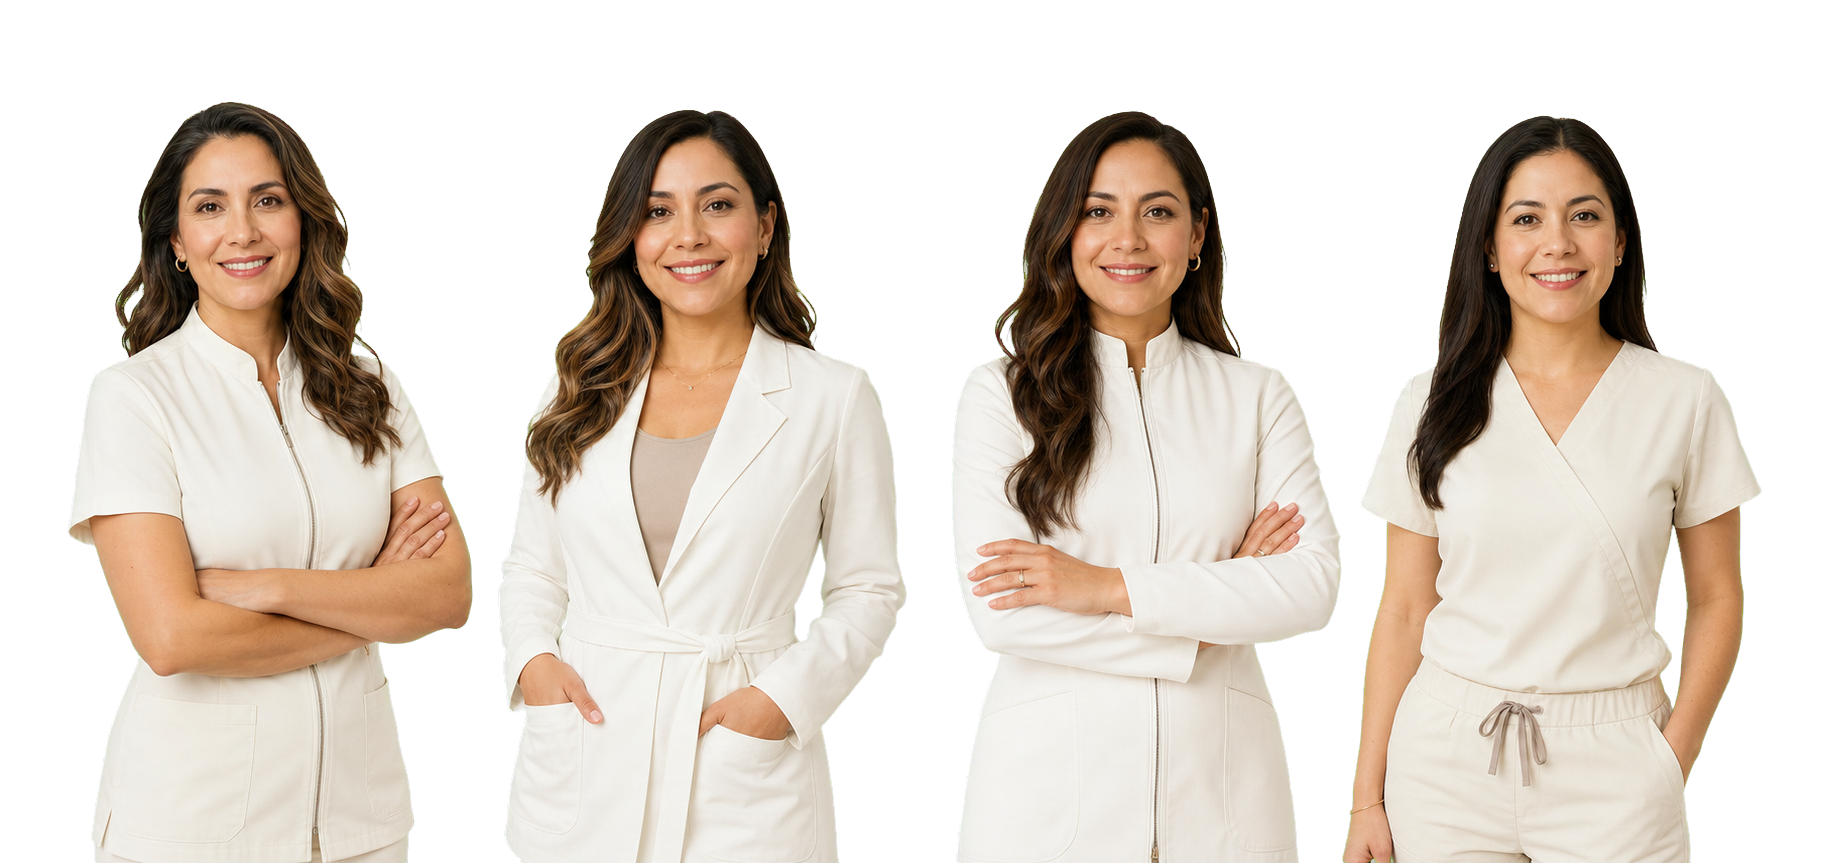
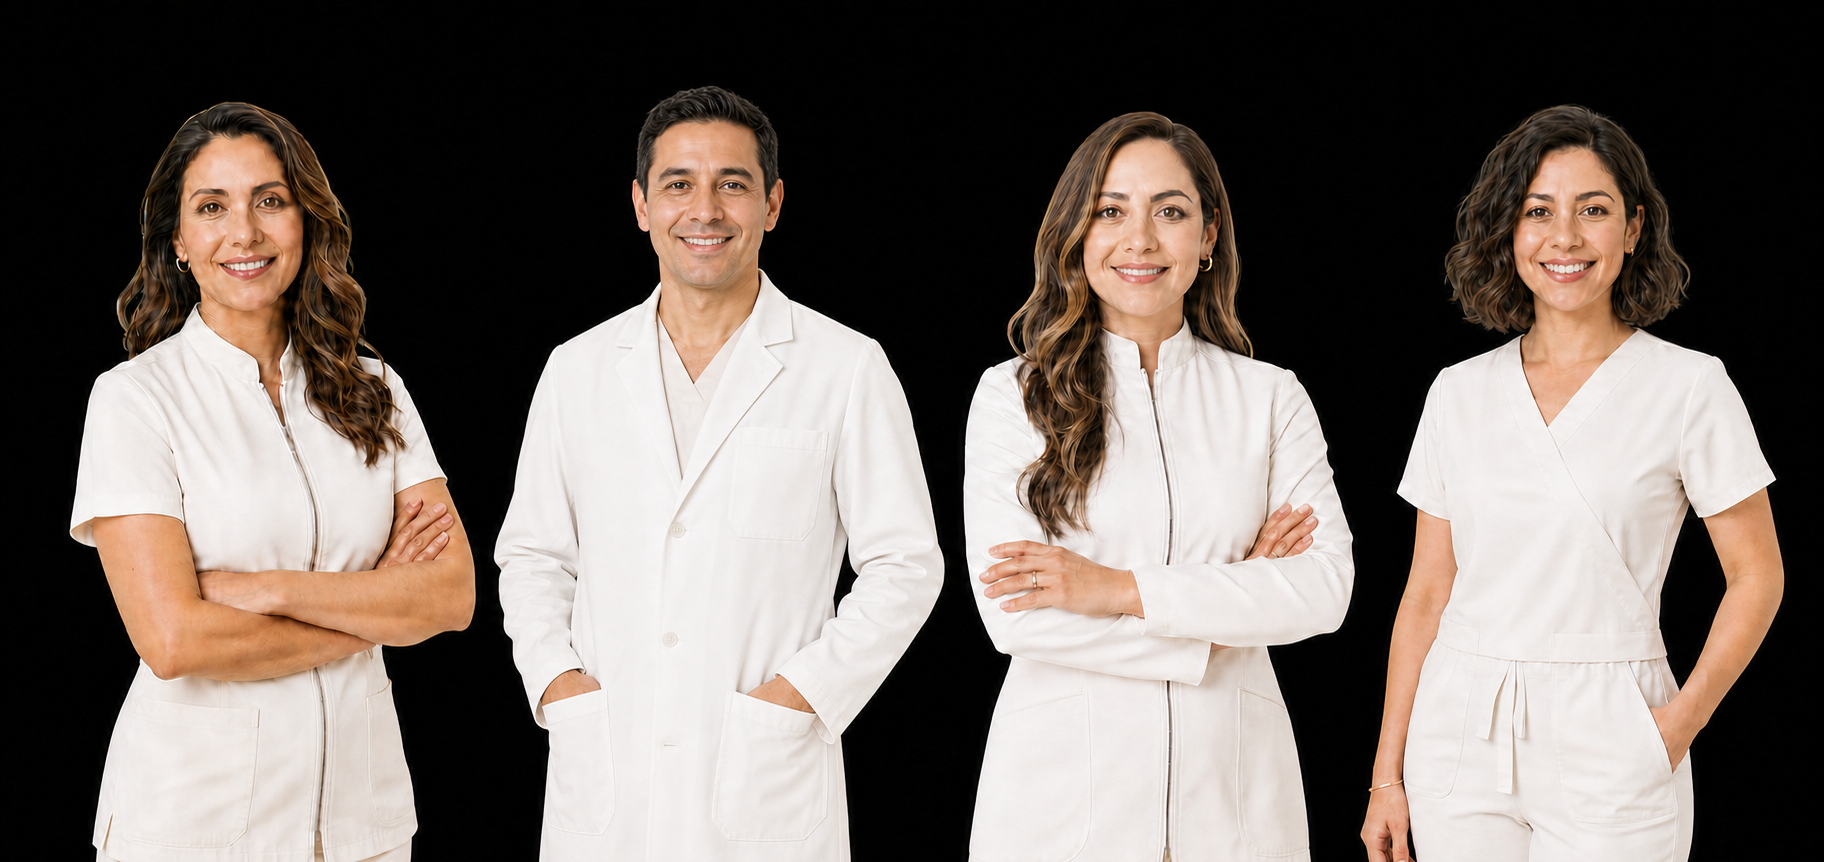
Actualiza marca y equipo de Clinica Dental Oris

diff --git a/index.html b/index.html
@@ -3,10 +3,10 @@
   <head>
     <meta charset="utf-8" />
     <meta name="viewport" content="width=device-width, initial-scale=1" />
-    <title>tüdd | Consultorio dental boutique</title>
+    <title>Clinica Dental Oris | Consultorio dental boutique</title>
     <meta
       name="description"
-      content="Consultorio dental boutique con asistente de triaje, cuatro doctoras independientes y agenda de citas."
+      content="Consultorio dental boutique con asistente de triaje, cuatro especialistas independientes y agenda de citas."
     />
     <link rel="preconnect" href="https://fonts.googleapis.com" />
     <link rel="preconnect" href="https://fonts.gstatic.com" crossorigin />
@@ -19,7 +19,7 @@
   <body>
     <header class="site-header" id="siteHeader">
       <div class="wrap nav-wrap">
-        <a class="logo" href="#inicio" aria-label="tüdd inicio">tüdd</a>
+        <a class="logo" href="#inicio" aria-label="Clinica Dental Oris inicio">Clinica Dental Oris</a>
         <nav class="main-nav" id="mainNav" aria-label="Navegacion principal">
           <a href="#consultorio">Consultorio</a>
           <a href="#nosotros">Nosotros</a>
@@ -43,7 +43,7 @@
         <div class="wrap hero-inner" id="heroInner">
           <h1>Antes de un diagnóstico, <em>una conversación.</em></h1>
           <p class="hero-lede">
-            Cuéntanos qué te trae por aquí y te orientamos hacia una de las cuatro doctoras
+            Cuéntanos qué te trae por aquí y te orientamos hacia una de las cuatro especialistas
             independientes del consultorio.
           </p>
 
@@ -58,7 +58,7 @@
           </section>
         </div>
 
-        <div class="scroll-cue"><span></span>conoce tüdd</div>
+        <div class="scroll-cue"><span></span>conoce Clinica Dental Oris</div>
       </section>
 
       <section class="about" id="consultorio">
@@ -67,12 +67,12 @@
             <span class="eyebrow">consultorio</span>
             <h2>Cuidado dental con calma, criterio y una agenda bien resuelta.</h2>
             <p class="quote">
-              Cuatro doctoras, cuatro maneras de atender, un mismo estándar de cuidado.
+              Cuatro especialistas, cuatro maneras de atender, un mismo estándar de cuidado.
               Primero se escucha, después se diagnostica.
             </p>
           </div>
           <div class="about-media reveal">
-            <img src="public/assets/tudd-clinic.png" alt="Recepcion minimal del consultorio dental tüdd" />
+            <img src="public/assets/tudd-clinic.png" alt="Recepcion minimal del consultorio dental Clinica Dental Oris" />
           </div>
         </div>
         <div class="stats-banner" aria-label="Datos del consultorio">
@@ -92,13 +92,13 @@
           </div>
           <div>
             <p>
-              tüdd reúne cuatro especialidades bajo un mismo criterio clínico: ortodoncia,
-              estética dental, endodoncia y odontopediatría. Cada doctora ejerce con
+              Clinica Dental Oris reúne cuatro especialidades bajo un mismo criterio clínico: ortodoncia,
+              estética dental, endodoncia y odontopediatría. Cada especialista ejerce con
               autonomía, y todas comparten protocolos de higiene, seguimiento y comunicación
               entre consultorios.
             </p>
             <p>
-              Si tu tratamiento requiere más de una especialidad, tus doctoras se coordinan
+              Si tu tratamiento requiere más de una especialidad, tus especialistas se coordinan
               directamente entre ellas - no tienes que ser tú quien explique tu caso dos veces.
             </p>
             <a href="#doctoras">conoce a cada especialista →</a>
@@ -113,7 +113,7 @@
             <h2>Cuatro especialidades, un mismo criterio de cuidado</h2>
           </div>
         </div>
-        <div class="doctor-panel" id="doctorTrack" aria-label="Doctoras de tüdd"></div>
+        <div class="doctor-panel" id="doctorTrack" aria-label="Especialistas de Clinica Dental Oris"></div>
       </section>
 
       <section class="trust" id="confianza">
@@ -137,7 +137,7 @@
             <span class="eyebrow">contacto</span>
             <h2>Visítanos o escríbenos.</h2>
             <div class="contact-list">
-              <div><span>dirección</span><p>Av Paseo de los Leones 2020, Cumbres 3o. Sector, 64610 Monterrey, N.L.<br />Plaza Altezza piso 1</p></div>
+              <div><span>dirección</span><p>Zona Valle, San Pedro Garza García, N.L.<br />Ubicación exacta al confirmar tu cita</p></div>
               <div><span>horario</span><p>Lunes a viernes, 9:00 - 19:00<br />Sábados, 9:00 - 14:00</p></div>
               <div><span>contacto</span><p>[email redacted]<br />+52 81 8208 5411</p></div>
             </div>
@@ -148,8 +148,8 @@
           </div>
           <div class="map-card">
             <iframe
-              title="Mapa de tüdd en Plaza Altezza"
-              src="https://www.google.com/maps?q=Av%20Paseo%20de%20los%20Leones%202020%2C%20Cumbres%203o.%20Sector%2C%2064610%20Monterrey%2C%20N.L.%20Plaza%20Altezza%20piso%201&output=embed"
+              title="Mapa de Clinica Dental Oris en San Pedro Garza García"
+              src="https://www.google.com/maps?q=San%20Pedro%20Garza%20Garc%C3%ADa%2C%20N.L.&output=embed"
               loading="lazy"
               referrerpolicy="no-referrer-when-downgrade"
             ></iframe>
@@ -161,7 +161,7 @@
     <footer class="footer">
       <div class="wrap footer-grid">
         <div>
-          <a class="logo" href="#inicio">tüdd</a>
+          <a class="logo" href="#inicio">Clinica Dental Oris</a>
           <p>Nosotras, cuidamos tu sonrisa.</p>
         </div>
         <div>
@@ -183,7 +183,7 @@
         </div>
       </div>
       <div class="wrap footer-bottom">
-        <span>© 2026 tüdd. Powered by cobalto.blue.</span>
+        <span>© 2026 Clinica Dental Oris. Powered by cobalto.blue.</span>
       </div>
     </footer>
 

diff --git a/public/index.html b/public/index.html
@@ -3,10 +3,10 @@
   <head>
     <meta charset="utf-8" />
     <meta name="viewport" content="width=device-width, initial-scale=1" />
-    <title>tüdd | Consultorio dental boutique</title>
+    <title>Clinica Dental Oris | Consultorio dental boutique</title>
     <meta
       name="description"
-      content="Consultorio dental boutique con asistente de triaje, cuatro doctoras independientes y agenda de citas."
+      content="Consultorio dental boutique con asistente de triaje, cuatro especialistas independientes y agenda de citas."
     />
     <link rel="preconnect" href="https://fonts.googleapis.com" />
     <link rel="preconnect" href="https://fonts.gstatic.com" crossorigin />
@@ -19,7 +19,7 @@
   <body>
     <header class="site-header" id="siteHeader">
       <div class="wrap nav-wrap">
-        <a class="logo" href="#inicio" aria-label="tüdd inicio">tüdd</a>
+        <a class="logo" href="#inicio" aria-label="Clinica Dental Oris inicio">Clinica Dental Oris</a>
         <nav class="main-nav" id="mainNav" aria-label="Navegacion principal">
           <a href="#consultorio">Consultorio</a>
           <a href="#nosotros">Nosotros</a>
@@ -43,7 +43,7 @@
         <div class="wrap hero-inner" id="heroInner">
           <h1>Antes de un diagnóstico, <em>una conversación.</em></h1>
           <p class="hero-lede">
-            Cuéntanos qué te trae por aquí y te orientamos hacia una de las cuatro doctoras
+            Cuéntanos qué te trae por aquí y te orientamos hacia una de las cuatro especialistas
             independientes del consultorio.
           </p>
 
@@ -58,7 +58,7 @@
           </section>
         </div>
 
-        <div class="scroll-cue"><span></span>conoce tüdd</div>
+        <div class="scroll-cue"><span></span>conoce Clinica Dental Oris</div>
       </section>
 
       <section class="about" id="consultorio">
@@ -67,12 +67,12 @@
             <span class="eyebrow">consultorio</span>
             <h2>Cuidado dental con calma, criterio y una agenda bien resuelta.</h2>
             <p class="quote">
-              Cuatro doctoras, cuatro maneras de atender, un mismo estándar de cuidado.
+              Cuatro especialistas, cuatro maneras de atender, un mismo estándar de cuidado.
               Primero se escucha, después se diagnostica.
             </p>
           </div>
           <div class="about-media reveal">
-            <img src="assets/tudd-clinic.png" alt="Recepcion minimal del consultorio dental tüdd" />
+            <img src="assets/tudd-clinic.png" alt="Recepcion minimal del consultorio dental Clinica Dental Oris" />
           </div>
         </div>
         <div class="stats-banner" aria-label="Datos del consultorio">
@@ -92,13 +92,13 @@
           </div>
           <div>
             <p>
-              tüdd reúne cuatro especialidades bajo un mismo criterio clínico: ortodoncia,
-              estética dental, endodoncia y odontopediatría. Cada doctora ejerce con
+              Clinica Dental Oris reúne cuatro especialidades bajo un mismo criterio clínico: ortodoncia,
+              estética dental, endodoncia y odontopediatría. Cada especialista ejerce con
               autonomía, y todas comparten protocolos de higiene, seguimiento y comunicación
               entre consultorios.
             </p>
             <p>
-              Si tu tratamiento requiere más de una especialidad, tus doctoras se coordinan
+              Si tu tratamiento requiere más de una especialidad, tus especialistas se coordinan
               directamente entre ellas - no tienes que ser tú quien explique tu caso dos veces.
             </p>
             <a href="#doctoras">conoce a cada especialista →</a>
@@ -113,7 +113,7 @@
             <h2>Cuatro especialidades, un mismo criterio de cuidado</h2>
           </div>
         </div>
-        <div class="doctor-panel" id="doctorTrack" aria-label="Doctoras de tüdd"></div>
+        <div class="doctor-panel" id="doctorTrack" aria-label="Especialistas de Clinica Dental Oris"></div>
       </section>
 
       <section class="trust" id="confianza">
@@ -137,7 +137,7 @@
             <span class="eyebrow">contacto</span>
             <h2>Visítanos o escríbenos.</h2>
             <div class="contact-list">
-              <div><span>dirección</span><p>Av Paseo de los Leones 2020, Cumbres 3o. Sector, 64610 Monterrey, N.L.<br />Plaza Altezza piso 1</p></div>
+              <div><span>dirección</span><p>Zona Valle, San Pedro Garza García, N.L.<br />Ubicación exacta al confirmar tu cita</p></div>
               <div><span>horario</span><p>Lunes a viernes, 9:00 - 19:00<br />Sábados, 9:00 - 14:00</p></div>
               <div><span>contacto</span><p>[email redacted]<br />+52 81 8208 5411</p></div>
             </div>
@@ -148,8 +148,8 @@
           </div>
           <div class="map-card">
             <iframe
-              title="Mapa de tüdd en Plaza Altezza"
-              src="https://www.google.com/maps?q=Av%20Paseo%20de%20los%20Leones%202020%2C%20Cumbres%203o.%20Sector%2C%2064610%20Monterrey%2C%20N.L.%20Plaza%20Altezza%20piso%201&output=embed"
+              title="Mapa de Clinica Dental Oris en San Pedro Garza García"
+              src="https://www.google.com/maps?q=San%20Pedro%20Garza%20Garc%C3%ADa%2C%20N.L.&output=embed"
               loading="lazy"
               referrerpolicy="no-referrer-when-downgrade"
             ></iframe>
@@ -161,7 +161,7 @@
     <footer class="footer">
       <div class="wrap footer-grid">
         <div>
-          <a class="logo" href="#inicio">tüdd</a>
+          <a class="logo" href="#inicio">Clinica Dental Oris</a>
           <p>Nosotras, cuidamos tu sonrisa.</p>
         </div>
         <div>
@@ -183,7 +183,7 @@
         </div>
       </div>
       <div class="wrap footer-bottom">
-        <span>© 2026 tüdd. Powered by cobalto.blue.</span>
+        <span>© 2026 Clinica Dental Oris. Powered by cobalto.blue.</span>
       </div>
     </footer>
 

diff --git a/public/script.js b/public/script.js
@@ -10,11 +10,11 @@ const doctors = [
     keywords: ["ortodoncia", "bracket", "brackets", "alineador", "alinear", "mordida", "chueco", "chuecos", "invisalign"]
   },
   {
-    id: "camila",
-    name: "Dra. Camila Rousseau",
+    id: "carlos",
+    name: "Dr. Carlos Rousseau",
     initials: "CR",
     role: "Estética dental",
-    site: "camila.html",
+    site: "carlos.html",
     bio: "Diseño de sonrisa, blanqueamiento, resinas y carillas con enfoque conservador.",
     position: "37.5%",
     keywords: ["estetica", "estética", "blanque", "carilla", "resina", "sonrisa", "mancha", "color", "amarillo"]
@@ -80,7 +80,7 @@ let activeReview = 0;
 function renderDoctors() {
   doctorTrack.innerHTML = `
     <div class="team-stage" data-active="">
-      <img class="team-sheet" src="assets/tudd-doctors-sheet.png" alt="Equipo clínico tüdd" />
+      <img class="team-sheet" src="assets/tudd-doctors-sheet.png" alt="Equipo clínico Clinica Dental Oris" />
       ${doctors
         .map(
           (doctor, index) => `
@@ -101,7 +101,7 @@ function renderDoctors() {
         .map(
           (doctor) => `
             <a class="team-name" href="${doctor.site}" data-doctor-name="${doctor.id}">
-              <span>${doctor.name.replace("Dra. ", "")}</span>
+              <span>${doctor.name.replace(/^Dr(a)?\\.\\s/, "")}</span>
               <small>${doctor.role}</small>
             </a>
           `
@@ -318,9 +318,9 @@ async function submitBooking() {
     <div class="confirm-state">
       <div class="confirm-icon">✓</div>
       <h3>Cita solicitada</h3>
-      <p>${confirmationNote} La doctora recibirá tu solicitud antes de tu llegada.</p>
+      <p>${confirmationNote} Tu especialista recibirá la solicitud antes de tu llegada.</p>
       <div class="confirm-detail">
-        <div><span>doctora</span><strong>${bookingState.doctor.name}</strong></div>
+        <div><span>especialista</span><strong>${bookingState.doctor.name}</strong></div>
         <div><span>día</span><strong>${bookingState.date}</strong></div>
         <div><span>hora</span><strong>${bookingState.time}</strong></div>
       </div>

diff --git a/script.js b/script.js
@@ -10,11 +10,11 @@ const doctors = [
     keywords: ["ortodoncia", "bracket", "brackets", "alineador", "alinear", "mordida", "chueco", "chuecos", "invisalign"]
   },
   {
-    id: "camila",
-    name: "Dra. Camila Rousseau",
+    id: "carlos",
+    name: "Dr. Carlos Rousseau",
     initials: "CR",
     role: "Estética dental",
-    site: "camila.html",
+    site: "carlos.html",
     bio: "Diseño de sonrisa, blanqueamiento, resinas y carillas con enfoque conservador.",
     position: "37.5%",
     keywords: ["estetica", "estética", "blanque", "carilla", "resina", "sonrisa", "mancha", "color", "amarillo"]
@@ -80,7 +80,7 @@ let activeReview = 0;
 function renderDoctors() {
   doctorTrack.innerHTML = `
     <div class="team-stage" data-active="">
-      <img class="team-sheet" src="public/assets/tudd-doctors-sheet.png" alt="Equipo clínico tüdd" />
+      <img class="team-sheet" src="public/assets/tudd-doctors-sheet.png" alt="Equipo clínico Clinica Dental Oris" />
       ${doctors
         .map(
           (doctor, index) => `
@@ -101,7 +101,7 @@ function renderDoctors() {
         .map(
           (doctor) => `
             <a class="team-name" href="${doctor.site}" data-doctor-name="${doctor.id}">
-              <span>${doctor.name.replace("Dra. ", "")}</span>
+              <span>${doctor.name.replace(/^Dr(a)?\\.\\s/, "")}</span>
               <small>${doctor.role}</small>
             </a>
           `
@@ -318,9 +318,9 @@ async function submitBooking() {
     <div class="confirm-state">
       <div class="confirm-icon">✓</div>
       <h3>Cita solicitada</h3>
-      <p>${confirmationNote} La doctora recibirá tu solicitud antes de tu llegada.</p>
+      <p>${confirmationNote} Tu especialista recibirá la solicitud antes de tu llegada.</p>
       <div class="confirm-detail">
-        <div><span>doctora</span><strong>${bookingState.doctor.name}</strong></div>
+        <div><span>especialista</span><strong>${bookingState.doctor.name}</strong></div>
         <div><span>día</span><strong>${bookingState.date}</strong></div>
         <div><span>hora</span><strong>${bookingState.time}</strong></div>
       </div>

diff --git a/public/styles.css b/public/styles.css
@@ -82,10 +82,11 @@ img {
 }
 
 .logo {
-  font-size: 26px;
+  max-width: calc(100vw - 96px);
+  font-size: clamp(18px, 2.4vw, 24px);
   font-weight: 300;
-  letter-spacing: 0.06em;
-  line-height: 1;
+  letter-spacing: 0.02em;
+  line-height: 1.08;
 }
 
 .main-nav {

diff --git a/styles.css b/styles.css
@@ -82,10 +82,11 @@ img {
 }
 
 .logo {
-  font-size: 26px;
+  max-width: calc(100vw - 96px);
+  font-size: clamp(18px, 2.4vw, 24px);
   font-weight: 300;
-  letter-spacing: 0.06em;
-  line-height: 1;
+  letter-spacing: 0.02em;
+  line-height: 1.08;
 }
 
 .main-nav {